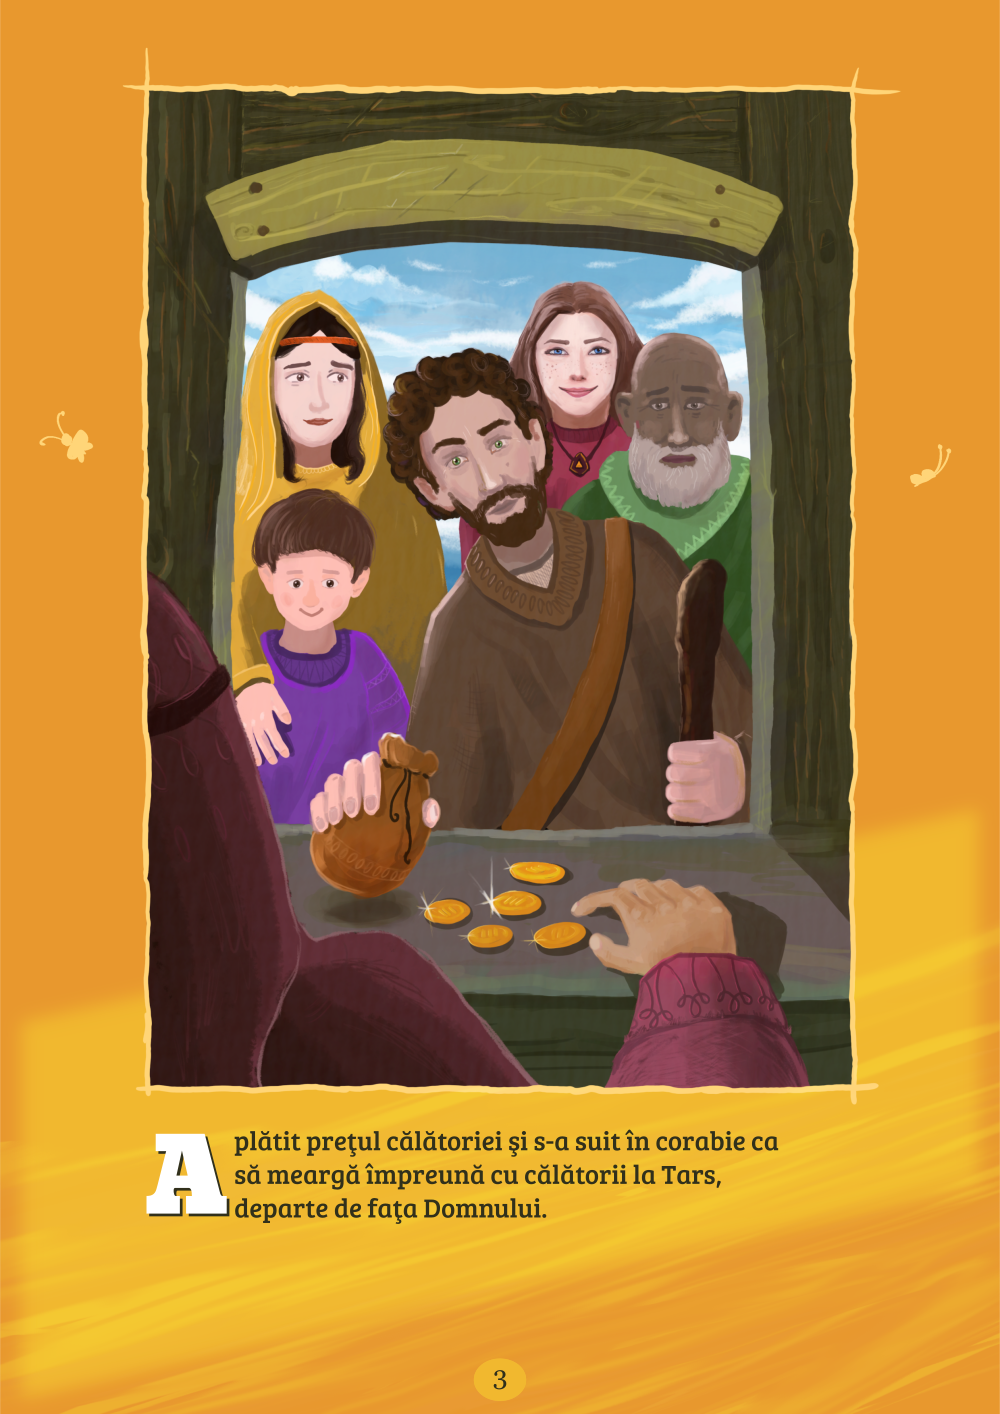
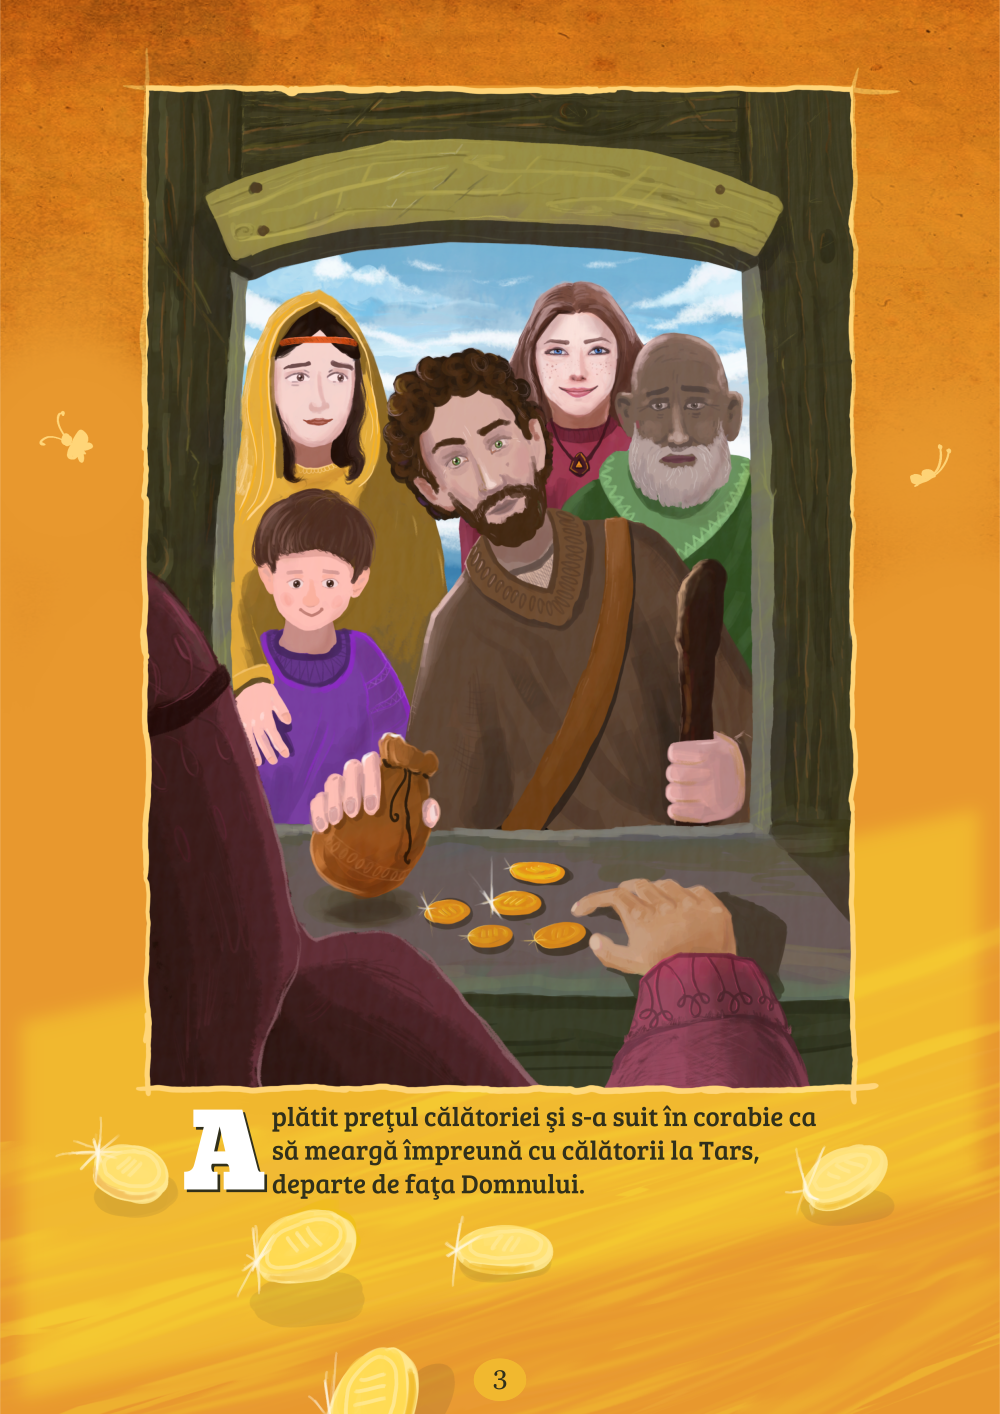
Update 03.

diff --git a/script.js b/script.js
@@ -4,7 +4,7 @@ angular.module('galleryApp', [])
     gallery.language = "ro";
     gallery.work_start_date = new Date(2016,05,20);
 
-    gallery.worked_hours = 173.5;  // EDIT HERE
+    gallery.worked_hours = 174;  // EDIT HERE
 
     gallery.get_global_progress = function() {
       var index;
@@ -152,7 +152,7 @@ angular.module('galleryApp', [])
       {
         id: 3,
         img: '03.png',
-        done: 90,
+        done: 100,
         text: {
           ro: "1:3C. A plătit preţul călătoriei şi s-a suit în corabie ca să meargă împreună cu călătorii la Tars, departe de faţa Domnului.",
           en: "1:3C. so he paid the fare thereof, and went down into it, to go with them unto Tarshish from the presence of the LORD."
